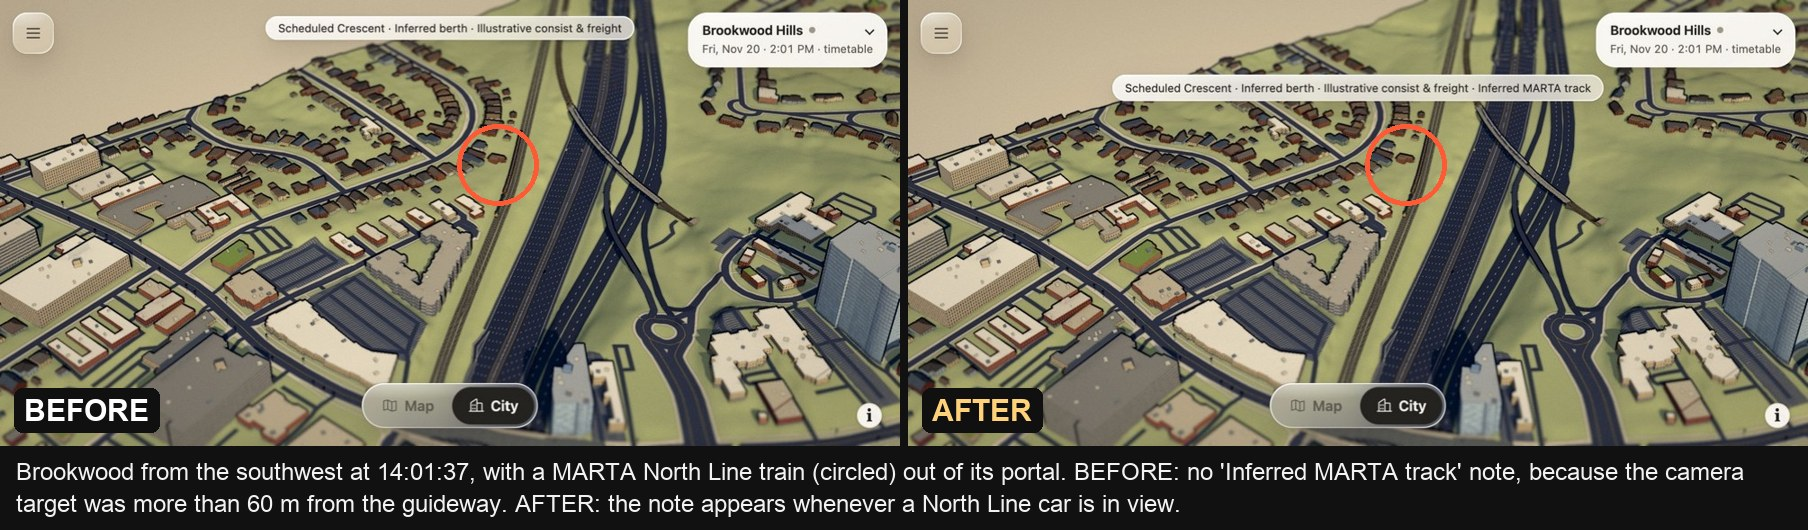
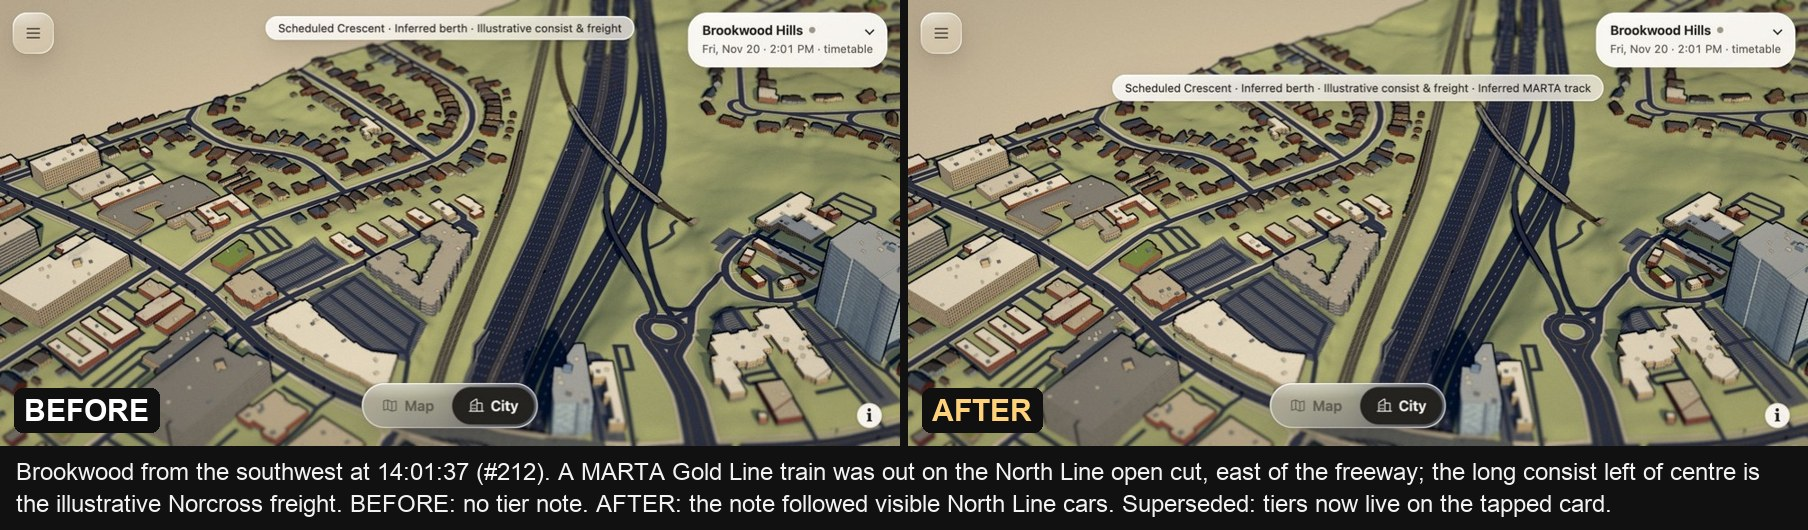
Move Brookwood and North Line tiers from ambient notes onto both train cards

diff --git a/web/src/map/card.ts b/web/src/map/card.ts
@@ -43,8 +43,17 @@ export const destination = (headsign: string) => {
   return `${dir ? `${dir.charAt(0).toUpperCase()}${dir.slice(1).toLowerCase()} to` : 'To'} ${place(headsign)}`;
 };
 
-export function trainCard(t: TrainState, route: Route | undefined, next: Stop | undefined, vt: VehicleType | undefined, city = false, a2c = false) {
-  if (a2c) return trainCardA2c(t, route, next, vt, city);
+/** Where City drew the tapped car: on the North Line open cut, whose alignment is inferred,
+ * or on the Brookwood model, whose berth is inferred. Tier words live on cards, never as
+ * ambient scene notes (#231). */
+export interface DrawnAt { inferredTrack?: boolean; inferredBerth?: boolean }
+const drawnRows = (city: boolean, drawn: DrawnAt, row: (k: string, v: string) => string) =>
+  (city && drawn.inferredBerth ? row('Brookwood berth', `Main 1 beside the island ${chip('inferred', 'inferred berth')}`) : '') +
+  (city && drawn.inferredTrack ? row('Track', `North Line open cut ${chip('inferred', 'inferred track')}`) : '');
+
+export function trainCard(t: TrainState, route: Route | undefined, next: Stop | undefined, vt: VehicleType | undefined, city = false, a2c = false,
+  drawn: DrawnAt = {}) {
+  if (a2c) return trainCardA2c(t, route, next, vt, city, drawn);
   const color = route ? routeColor(route) : '#333';
   const name = route?.mode === 'heavy_rail' ? `${titleCase(route.shortName)} Line` : route?.longName ?? 'Train';
   let model: string | undefined;
@@ -60,6 +69,7 @@ export function trainCard(t: TrainState, route: Route | undefined, next: Stop | 
     <dl>
       ${nextRow(t, next)}
       ${units ? `<dt>${model ? 'City model' : 'Looks like'}</dt><dd>${esc(units)} ${chip('illustrative', model ? undefined : 'typical')}</dd>` : ''}
+      ${drawnRows(city, drawn, (k, v) => `<dt>${esc(k)}</dt><dd>${v}</dd>`)}
       ${
         live
           ? `<dt class="position-report">Position</dt><dd class="position-report">${t.observedAt ? `reported ${ago(t.observedAt)}` : 'report time unknown'} by ${esc(route?.operator)}</dd>`
@@ -144,7 +154,7 @@ export function cityFreightCard(line = 'Atlanta Terminal Subdivision', a2c = fal
 
 /** The A2c detail panel's train card: service and line, destination, then one row per fact,
  * each with its own truth tier. */
-function trainCardA2c(t: TrainState, route: Route | undefined, next: Stop | undefined, vt: VehicleType | undefined, city: boolean) {
+function trainCardA2c(t: TrainState, route: Route | undefined, next: Stop | undefined, vt: VehicleType | undefined, city: boolean, drawn: DrawnAt) {
   const line = route?.mode === 'heavy_rail' ? `${route.operator ?? 'MARTA'} ${titleCase(route.shortName)} Line` : route?.longName ?? 'Train';
   const service = route ? SERVICE[route.mode] ?? 'Rail' : 'Rail';
   const swatch = route ? MODE_COLOR[route.mode] : '#495057';
@@ -161,6 +171,7 @@ function trainCardA2c(t: TrainState, route: Route | undefined, next: Stop | unde
     <dl class="a2-facts">
       ${name ? row('Next stop', `<strong>${esc(place(name))}${eta}</strong> ${chip(t.s.tier, TIER_WORD[t.s.tier])}`) : ''}
       ${units ? row(route?.mode === 'heavy_rail' ? 'Cars' : 'Consist', `${esc(units)} ${chip('illustrative')}`) : ''}
+      ${drawnRows(city, drawn, row)}
       ${live
         ? row('Position', `${t.observedAt ? `reported ${ago(t.observedAt)}` : 'report time unknown'} by ${esc(route?.operator)} ${chip('live', 'Live')}`)
         : row('Position', `Timetable; delays not shown ${chip(t.s.tier, TIER_WORD[t.s.tier])}`)}

diff --git a/web/src/main.ts b/web/src/main.ts
@@ -9,7 +9,7 @@ import { createShell, type ShellOptions, type View } from './ui/shell';
 import { uiNext } from './ui/flag';
 import { lonLatToScene, sceneToLonLat } from './core/places';
 import { mapMetresPerPixel, mapZoomForScale, parseCityCamera } from './core/camera';
-import { busCard, chip, cityFreightCard, crossingCard, freightCard, trainCard } from './map/card';
+import { busCard, chip, cityFreightCard, crossingCard, freightCard, trainCard, type DrawnAt } from './map/card';
 import { MODE_COLOR, addStaticLayers, trainsSource } from './map/layers';
 import { addTrainLayer, trainFeatures } from './map/trains';
 import type { LiveBus, CrossingProps, Meta, RoutesFile, TimetableFile, TrackArcProps, VehicleType } from './model/types';
@@ -113,6 +113,7 @@ recenter.addEventListener('click', () => follow?.recenter());
 let lastCardHTML = '';
 let selectedBus: string | null = null;
 let selectedTrain: string | null = null;
+let selectedDrawn: DrawnAt = {};
 function showCard(html: string, canFollow = false) {
   followPanel.hidden = !canFollow;
   if (canFollow) updateFollowPanel();
@@ -135,6 +136,7 @@ function hideCard() {
   card.hidden = true;
   selectedBus = null;
   selectedTrain = null;
+  selectedDrawn = {};
 }
 document.addEventListener('keydown', (e) => e.key === 'Escape' && hideCard());
 
@@ -147,7 +149,7 @@ function renderTrainCard() {
   }
   showCard(
     trainCard(t, schedule.routes.get(t.routeId), t.nextStop ? schedule.stops.get(t.nextStop) : undefined, schedule.vehicleTypes.get(t.vehicleType),
-      !view3d.hidden, uiNext(location.search)),
+      !view3d.hidden, uiNext(location.search), selectedDrawn),
     !!follow && !view3d.hidden,
   );
 }
@@ -167,6 +169,7 @@ function followFromLink() {
       followBus = null;
       selectedBus = bus.id;
       selectedTrain = null;
+      selectedDrawn = {};
       follow.start({ kind: 'bus', id: bus.id, tier: bus.position.tier });
       renderBusCard();
     }
@@ -194,6 +197,7 @@ function followFromLink() {
   if (!train) return;
   followRoute = null;
   selectedTrain = train.id;
+  selectedDrawn = {};
   selectedBus = null;
   follow.start({ kind: 'train', id: train.id, pathId: train.pathId, tier: train.s.tier });
   renderTrainCard();
@@ -346,6 +350,7 @@ function addMapLayers(map: maplibregl.Map) {
     selectedBus = null;
     if (train) {
       selectedTrain = train;
+      selectedDrawn = {};
       return renderTrainCard();
     }
     const box: [maplibregl.PointLike, maplibregl.PointLike] = [
@@ -355,6 +360,7 @@ function addMapLayers(map: maplibregl.Map) {
     const f = directBus ?? map.queryRenderedFeatures(box, { layers: ['buses', 'crossings', 'freight-hit'] })[0];
     if (!f) return hideCard();
     selectedTrain = null;
+    selectedDrawn = {};
     if (f.layer.id === 'buses') {
       const bus = visibleBuses.get(f.properties.id);
       if (!bus || !clock.isRealTime()) return hideCard();
@@ -464,6 +470,7 @@ async function openCity() {
       selectVehicle: hit => {
         follow?.stop();
         selectedTrain = hit?.kind === 'train' ? hit.id : null;
+        selectedDrawn = hit?.kind === 'train' ? { inferredTrack: hit.inferredTrack, inferredBerth: hit.inferredBerth } : {};
         selectedBus = hit?.kind === 'bus' ? hit.id : null;
         if (selectedTrain) renderTrainCard();
         else if (selectedBus) renderBusCard();

diff --git a/web/src/map/card.test.ts b/web/src/map/card.test.ts
@@ -1,5 +1,5 @@
 import { describe, expect, it } from 'vitest';
-import { destination, trainCard } from './card';
+import { cityFreightCard, destination, trainCard } from './card';
 import type { Route, TrainState } from '../model/types';
 
 const route = { id: 'marta:route:RED', mode: 'heavy_rail', shortName: 'RED', longName: 'Red Line', operator: 'MARTA', color: 'd22030' } as unknown as Route;
@@ -21,5 +21,27 @@ describe('A2c train card', () => {
     const sched = trainCard(train('scheduled'), route, undefined, vt, true, true);
     expect(sched).not.toMatch(/chip live/);
     expect(sched).toMatch(/chip scheduled">Scheduled/);
+  });
+});
+
+const trip = (routeId: string) => ({
+  id: 't', routeId, pathId: 'p', heading: 45, lon: -84.39, lat: 33.8, headsign: 'New York', vehicleType: 'vt',
+  s: { value: 0, tier: 'scheduled', source: 'gtfs', asOf: '20261120' },
+  lengthM: { value: 200, tier: 'illustrative', source: 'vehicle-types', asOf: '' },
+}) as unknown as TrainState;
+
+// Tier words live on the cards; the scene carries no ambient tier notes (#231).
+describe('Brookwood and North Line tiers on cards', () => {
+  it.each([false, true])('names the inferred berth and track only where City drew the car (A2c %s)', a2c => {
+    const crescent = trainCard(trip('amtrak:route:Crescent'), undefined, undefined, undefined, true, a2c, { inferredBerth: true });
+    expect(crescent).toMatch(/chip inferred">inferred berth/);
+    expect(crescent).toMatch(/chip illustrative/);
+    expect(trainCard(trip('amtrak:route:Crescent'), undefined, undefined, undefined, true, a2c)).not.toContain('inferred berth');
+    expect(trainCard(trip('amtrak:route:Crescent'), undefined, undefined, undefined, false, a2c, { inferredBerth: true })).not.toContain('inferred berth');
+    expect(trainCard(trip('marta:route:RED'), route, undefined, undefined, true, a2c, { inferredTrack: true })).toMatch(/chip inferred">inferred track/);
+    expect(trainCard(trip('marta:route:RED'), route, undefined, undefined, true, a2c)).not.toContain('inferred track');
+  });
+  it('labels the Norcross freight illustrative', () => {
+    expect(cityFreightCard('NS Norcross District')).toMatch(/NS Norcross District <span class="chip illustrative">/);
   });
 });

diff --git a/web/src/city/city.ts b/web/src/city/city.ts
@@ -44,7 +44,6 @@ import { StreetFigures } from './street-figures';
 import { cityTravellers, type Traveller } from './walkways';
 import { ArterialTraffic } from './arterial-traffic';
 import midtownRowBounds from '../../../pipeline/prototypes/square-board/midtown-rows.json';
-import { anyCarInView } from './in-view';
 import { loadArterials } from './arterials';
 import { cityRoadHeight } from './road-height';
 import { CityFreight } from './freight';
@@ -1245,8 +1244,6 @@ export async function createCity(container: HTMLElement, rf: RoutesFile, quality
   let frames = 0;
   let fpsT = performance.now();
   let fps = 0;
-  let showingBrookwoodNote: string | null = null;
-  let showingNorthLineNote = false;
   let lastFrame = performance.now();
   const project = makeProjector(manifest.origin);
   const motionPreference = options.follow ? matchMedia('(prefers-reduced-motion: reduce)') : undefined;
@@ -1313,22 +1310,6 @@ export async function createCity(container: HTMLElement, rf: RoutesFile, quality
     trains.surfaceCars += northLine?.(states, atm.dark) ?? 0;
     if (brookwood) {
       trains.surfaceCars += brookwood.update(states, atm.dark);
-      // Near the corridor, or with any Crescent or freight car in the frame.
-      const note = brookwood.note(controls.target.x, controls.target.z) ??
-        (anyCarInView([...brookwood.cars.children, ...brookwood.freight.children], camera) ? brookwood.runningNote : null);
-      if (note !== showingBrookwoodNote) {
-        showingBrookwoodNote = note;
-        areaResult('brookwood-service', note);
-      }
-    }
-    if (northLine?.bounds) {
-      const { x, z } = controls.target, r = northLine.bounds;
-      // Near the open guideway, or with any North Line car out of the portal and in the frame.
-      const near = (x >= r.minX && x <= r.maxX && z >= r.minZ && z <= r.maxZ) || anyCarInView(northLine.cars(), camera);
-      if (near !== showingNorthLineNote) {
-        showingNorthLineNote = near;
-        areaResult('north-line', near ? 'Inferred MARTA track' : null);
-      }
     }
     const followed = options.follow?.vehicle;
     const fix = followed ? locate(followed, states) : null;

diff --git a/web/src/city/pick.ts b/web/src/city/pick.ts
@@ -3,7 +3,7 @@ import { CAR_LENGTH } from '../vignette/cq400';
 import { BUS_LENGTH } from '../vignette/xcelsior';
 import type { CityBuses } from './buses';
 
-export type VehicleSelection = { kind: 'train' | 'bus'; id: string } | { kind: 'freight'; line?: string };
+export type VehicleSelection = { kind: 'train'; id: string; inferredTrack?: boolean; inferredBerth?: boolean } | { kind: 'bus'; id: string } | { kind: 'freight'; line?: string };
 
 /** Work only on a tap. Project the visible length of each drawn car into CSS pixels.
  * Comparing screen distances gives the same touch radius on both quality tiers. */
@@ -39,8 +39,9 @@ export function pickVehicle(x: number, y: number, width: number, height: number,
       consider(vehicle, material.clippingPlanes ?? edges);
     }
   }
-  for (const car of trains.children) railCar(car, CAR_LENGTH, { kind: 'train', id: car.userData.trainId });
-  for (const car of intercity?.children ?? []) railCar(car, car.userData.lengthM, { kind: 'train', id: car.userData.trainId });
+  for (const car of trains.children) railCar(car, CAR_LENGTH, { kind: 'train', id: car.userData.trainId, ...(car.userData.inferredTrack ? { inferredTrack: true } : {}) });
+  // Intercity cars are drawn only by the Brookwood model, at its inferred berth or corridor.
+  for (const car of intercity?.children ?? []) railCar(car, car.userData.lengthM, { kind: 'train', id: car.userData.trainId, inferredBerth: true });
   for (const car of freight?.children ?? []) railCar(car, car.userData.lengthM, { kind: 'freight' });
   for (const car of corridorFreight?.children ?? []) railCar(car, car.userData.lengthM, { kind: 'freight', line: car.userData.line });
   for (const bus of buses) {

diff --git a/web/src/city/brookwood.ts b/web/src/city/brookwood.ts
@@ -128,19 +128,6 @@ export function brookwoodTruckAt(s: number) {
   return { x: p.x + beyond * p.dx, z: p.z + beyond * p.dz };
 }
 
-/** The train note for a camera target: the station and its berth inside the survey,
- * the shorter running note along either continuation. */
-const continuations = [
-  { minX: -1000, maxX: -560, minZ: -4640, maxZ: -4150 },
-  { minX: 395, maxX: 760, minZ: -5700, maxZ: -5400 },
-];
-export const brookwoodRunningNote = 'Scheduled Crescent · Illustrative consist & freight';
-const inside = (r: typeof brookwoodBounds, x: number, z: number) => x >= r.minX && x <= r.maxX && z >= r.minZ && z <= r.maxZ;
-export function brookwoodRailNote(x: number, z: number) {
-  if (inside(brookwoodBounds, x, z)) return 'Scheduled Crescent · Inferred berth · Illustrative consist & freight';
-  if (continuations.some(r => inside(r, x, z))) return brookwoodRunningNote;
-  return null;
-}
 
 const atl = chainage(...project(-84.392477, 33.799445)).along;
 const platformEnd = chainage(...platform[1]).along;
@@ -594,8 +581,6 @@ export function createBrookwood(sceneZero: number) {
     updateFreight: (clockMs: number) => freight.update(clockMs, crescentOnCorridor),
     freight: freight.group,
     get freightCars() { return freight.visibleCars; },
-    note: brookwoodRailNote,
-    runningNote: brookwoodRunningNote,
     bounds: brookwoodBounds,
     setNorthEdge(z: number) {
       northEdge.constant = -z;

diff --git a/web/src/city/brookwood-trains.test.ts b/web/src/city/brookwood-trains.test.ts
@@ -4,7 +4,7 @@ import { describe, expect, it } from 'vitest';
 import { Schedule } from '../sched/engine';
 import { consistLength } from '../vignette/crescent-stock';
 import { Line } from '../vignette/geom';
-import { brookwoodRailNote, corridorChainage, crescentPlacement } from './brookwood';
+import { corridorChainage, crescentPlacement } from './brookwood';
 import { corridor } from './brookwood-corridor';
 import { createNorcrossFreight, NORCROSS_LINE } from './brookwood-freight';
 
@@ -38,16 +38,6 @@ describe.skipIf(!staged)('Brookwood corridor trains', () => {
         expect(run[i].t - run[i - 1].t, new Date(run[i].t).toISOString()).toBe(step);
         expect(dir * (run[i].center - run[i - 1].center)).toBeGreaterThan(-0.5);
         expect(Math.abs(run[i].center - run[i - 1].center)).toBeLessThan(400);
-      }
-    }
-  });
-
-  it('labels every point of the corridor with the train note', () => {
-    for (const track of [corridor.main1, corridor.main2, corridor.siding]) {
-      const line = new Line(track.pts);
-      for (let s = 0; s <= line.length; s += 5) {
-        const { x, z } = line.at(s);
-        expect(brookwoodRailNote(x, z), `${x},${z}`).toMatch(/Illustrative consist & freight/);
       }
     }
   });

diff --git a/web/src/city/midtown-marta-rail.ts b/web/src/city/midtown-marta-rail.ts
@@ -286,6 +286,7 @@ export function createNorthLine(
         );
         if (i >= n / 2) car.rotateY(Math.PI);
         car.userData.trainId = t.id;
+        car.userData.inferredTrack = true;
         car.visible = true;
         total++;
       }

diff --git a/docs/brookwood-rail.md b/docs/brookwood-rail.md
@@ -47,7 +47,7 @@ The extension adds about 10k triangles to the existing Brookwood mesh and no dra
 
 The scheduled Crescent now runs the full width on Main 1. Over a sampled day, its timetable positions stay within about 4 m of the joined line all the way to both edges, so the existing 35 m placement limit holds. Past an edge, the timetable shape curves away from the extended tangent, and a 120 m limit lets the last cars leave through the clip planes. Chainage keeps the survey's origin, so the berth, the island shift and the rail deck do not move. Over the 20 November timetable, the southbound train is on the corridor from about 08:34 to 09:23 and the northbound from about 22:40 to 22:51. Both enter and leave through the edges and move in trip order.
 
-An illustrative Norfolk Southern freight runs on Main 2: two locomotives and eight boxcars at 6.7 m/s. A passage may begin every 20 minutes, alternating direction. Its timing, direction, speed and consist are invented, and the tapped card says so ("NS Norcross District · Illustrative"). The freight yields the whole corridor while any scheduled Crescent is on it, so it never appears beside the Crescent's approach, berth or departure. The rule depends only on the scene clock and the current train states, so scrubbing and reloads cannot get around it. The cost is that a passage under way disappears when a Crescent enters at an edge, at most twice a day. The test samples a full timetable day every 10 s and fails with the rule removed. The station note now covers both continuations ("Scheduled Crescent · Illustrative consist & freight"). When the area note is too long for the gap between the menu button and the status card, it moves below them and wraps instead of clipping.
+An illustrative Norfolk Southern freight runs on Main 2: two locomotives and eight boxcars at 6.7 m/s. A passage may begin every 20 minutes, alternating direction. Its timing, direction, speed and consist are invented, and the tapped card says so ("NS Norcross District · Illustrative"). The freight yields the whole corridor while any scheduled Crescent is on it, so it never appears beside the Crescent's approach, berth or departure. The rule depends only on the scene clock and the current train states, so scrubbing and reloads cannot get around it. The cost is that a passage under way disappears when a Crescent enters at an edge, at most twice a day. The test samples a full timetable day every 10 s and fails with the rule removed. Under the #231 rule, these tiers live on the tapped cards, not in an ambient scene note. The Crescent card names its scheduled position, the inferred berth on Main 1 beside the island, and its illustrative consist. The freight card names NS Norcross District as illustrative.
 
 | Scene | Low day / night | High day / night |
 | --- | --- | --- |

diff --git a/docs/build-log.md b/docs/build-log.md
@@ -2386,3 +2386,6 @@ Under `?ui=next`, the right side of the screen is now a single detail panel. On 
 
 The 1924 Biltmore had been drawn as a 65 m blue glass box. It is now brick on a limestone base with the Georgian Terrace's cornice kit, which moved into a shared module so other historic buildings can use it. The two WSB masts on its roof, 95 m apart, spell BILTMORE down each side in red neon. The first night render showed a huge black rectangle over the building: the horizontal mast bars were widened along their own length, so their triangles had zero area and NaN normals, and the bloom pass smeared those NaNs into a square. A test now rejects NaN normals. [Before and after](log/ui/midtown-skyline/biltmore-front-compare-day.jpg)
 
+### 2026-11-23 — Tiers move from the scene to the cards
+
+Sam's new rule (#231) takes truth-tier words out of the scene. The ambient notes at Brookwood ("Scheduled Crescent · Inferred berth · …") and on the North Line ("Inferred MARTA track") are gone, and the cards carry their content. The Crescent card, in both the current and A2c UIs, gains a "Brookwood berth · inferred berth" row, and any car tapped on the North Line's open cut shows "inferred track". The freight card already said illustrative. Checking the old note's screenshot turned up a mislabel: the consist I had circled as a North Line train was the illustrative freight on Main 2. Tapping it in the browser settled the question, and the caption is corrected. Requires a web rebuild only. [Before and after](log/ui/area-note/compare-tiers-on-cards.jpg)
